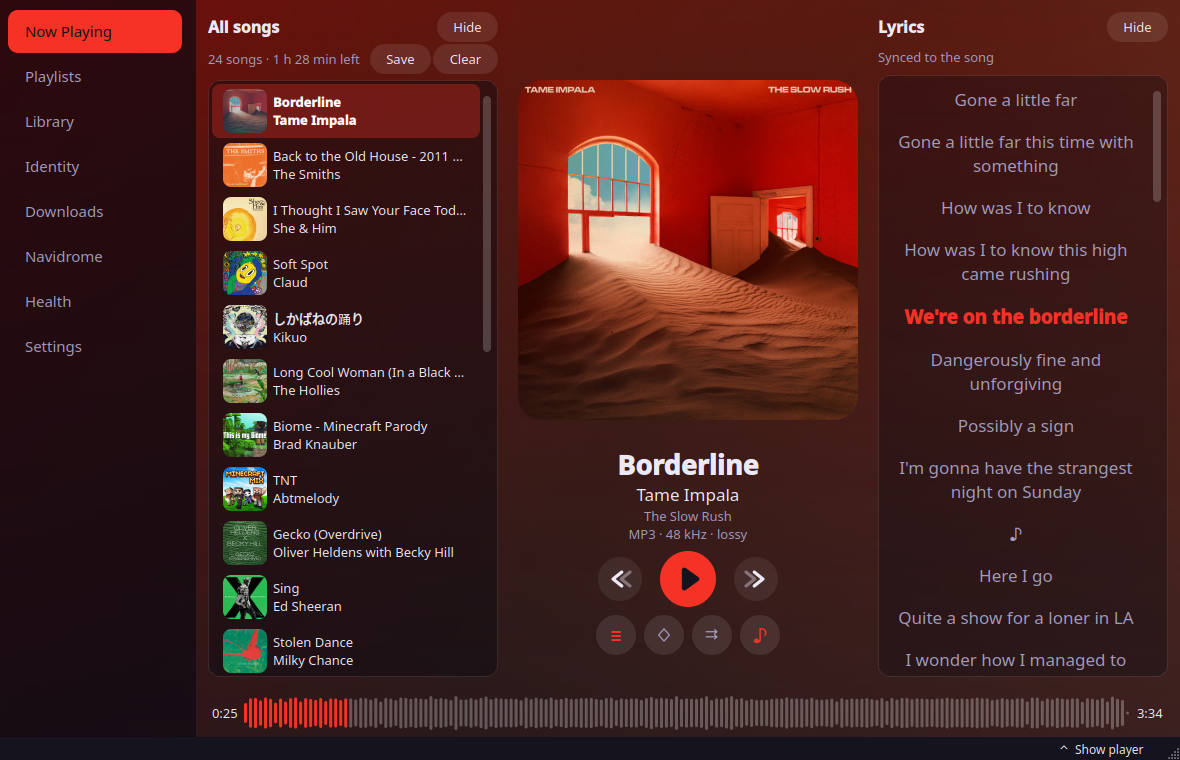
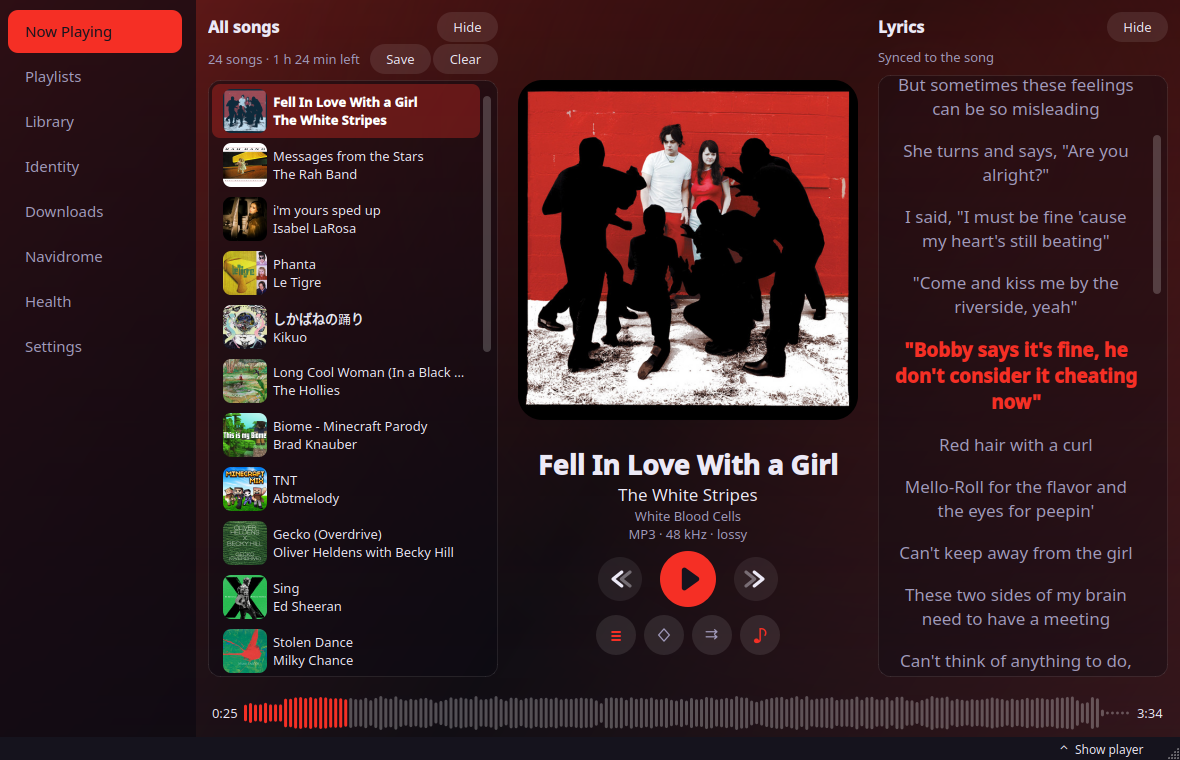
screenshots: a real library shows three different songs per list, not one repeated; images retaken
Claude-Session: https://claude.ai/code/session_014WystE5YQ2Pvm8NXTep3fN

diff --git a/tools/capture_media.py b/tools/capture_media.py
@@ -265,8 +265,9 @@ def build_real_window(tmp, music):
 
 
 def pick_real_albums(win, tries=500):
-    """24 song lists like the demo's albums, one song per hue (index = hue / 15 degrees) taken from real covers: the
-    most vivid cover of that hue among an even sample of the library. A hue with none borrows its neighbour's."""
+    """24 song lists like the demo's albums, led by one song per hue (index = hue / 15 degrees) taken from real covers:
+    the most vivid cover of that hue among an even sample of the library. The two songs after it are the next most
+    vivid of that hue, or of the nearest hues when it has too few: three different songs, never one repeated."""
     from PySide6.QtGui import QColor, QPixmap
 
     from sleeve import art, theme
@@ -286,14 +287,19 @@ def pick_real_albums(win, tries=500):
             continue
         bucket = int(max(colour.hsvHueF(), 0) * 360 // 15) % 24
         score = colour.hsvSaturationF() * 0.6 + (0.4 if song.lrc else 0)         # vivid, and with lyrics if possible
-        if bucket not in best or score > best[bucket][0]:
-            best[bucket] = (score, song.path)
+        best.setdefault(bucket, []).append((score, song.path))
     if not best:
         raise SystemExit("no songs with colourful covers were found in that folder")
     albums = []
     for i in range(24):
-        near = min(best, key=lambda b: min((b - i) % 24, (i - b) % 24))
-        albums.append([best[near][1]] * 3)
+        songs = []
+        for bucket in sorted(best, key=lambda b: min((b - i) % 24, (i - b) % 24)):      # the nearest hue first
+            for _score, path in sorted(best[bucket], reverse=True):
+                if path not in songs:
+                    songs.append(path)
+            if len(songs) >= 3:
+                break
+        albums.append((songs * 3)[:3])                        # a library this small repeats rather than comes up short
     return albums
 
 
